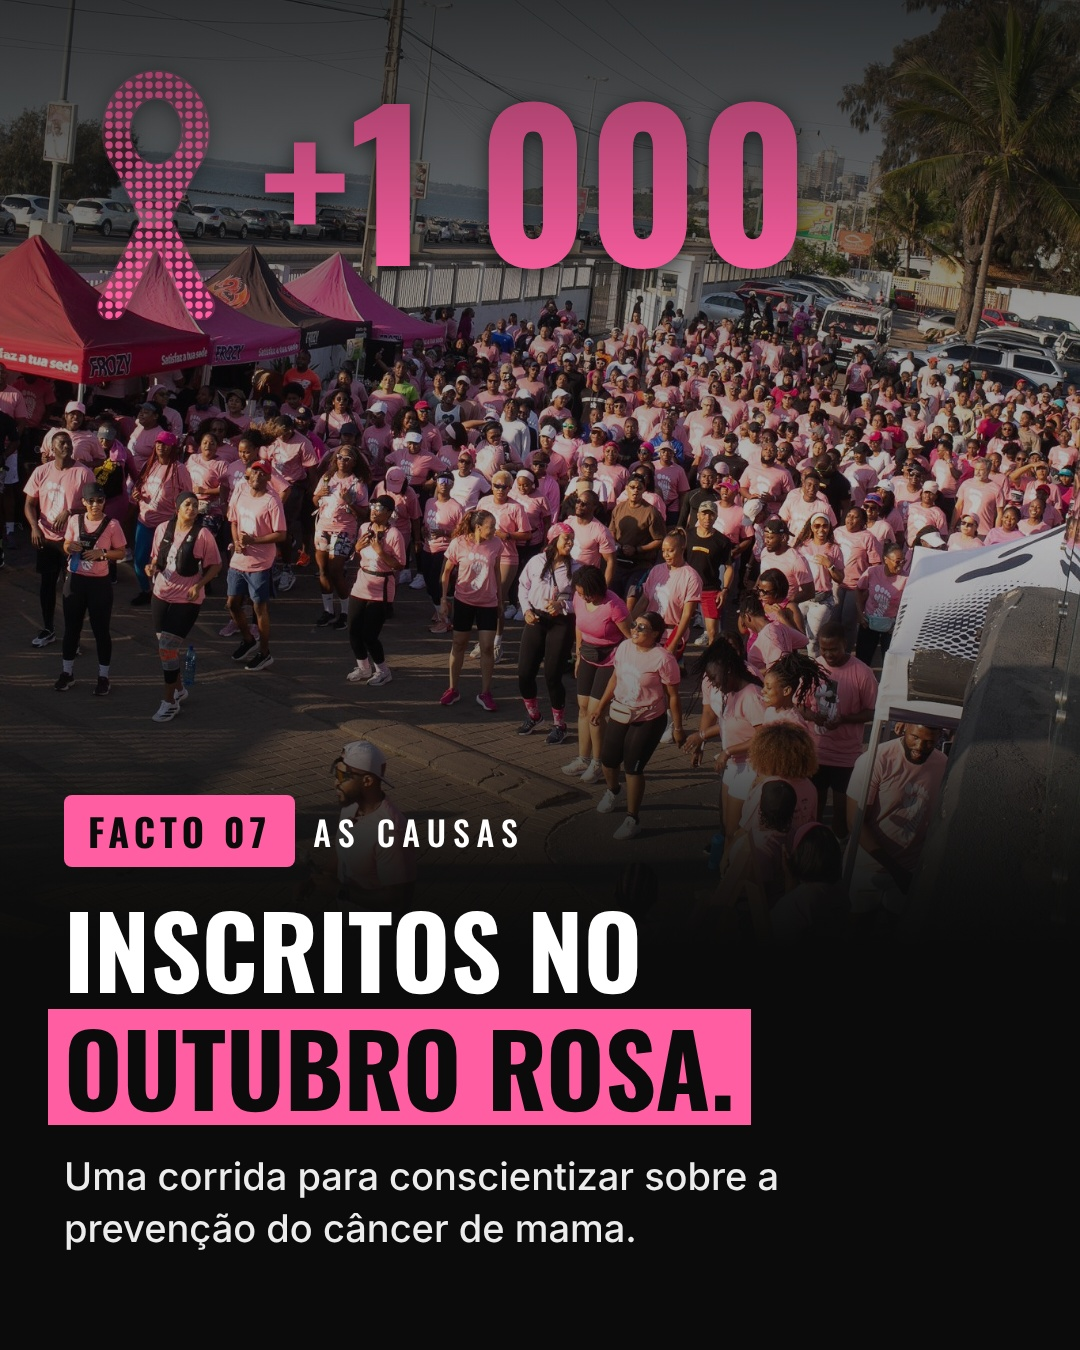
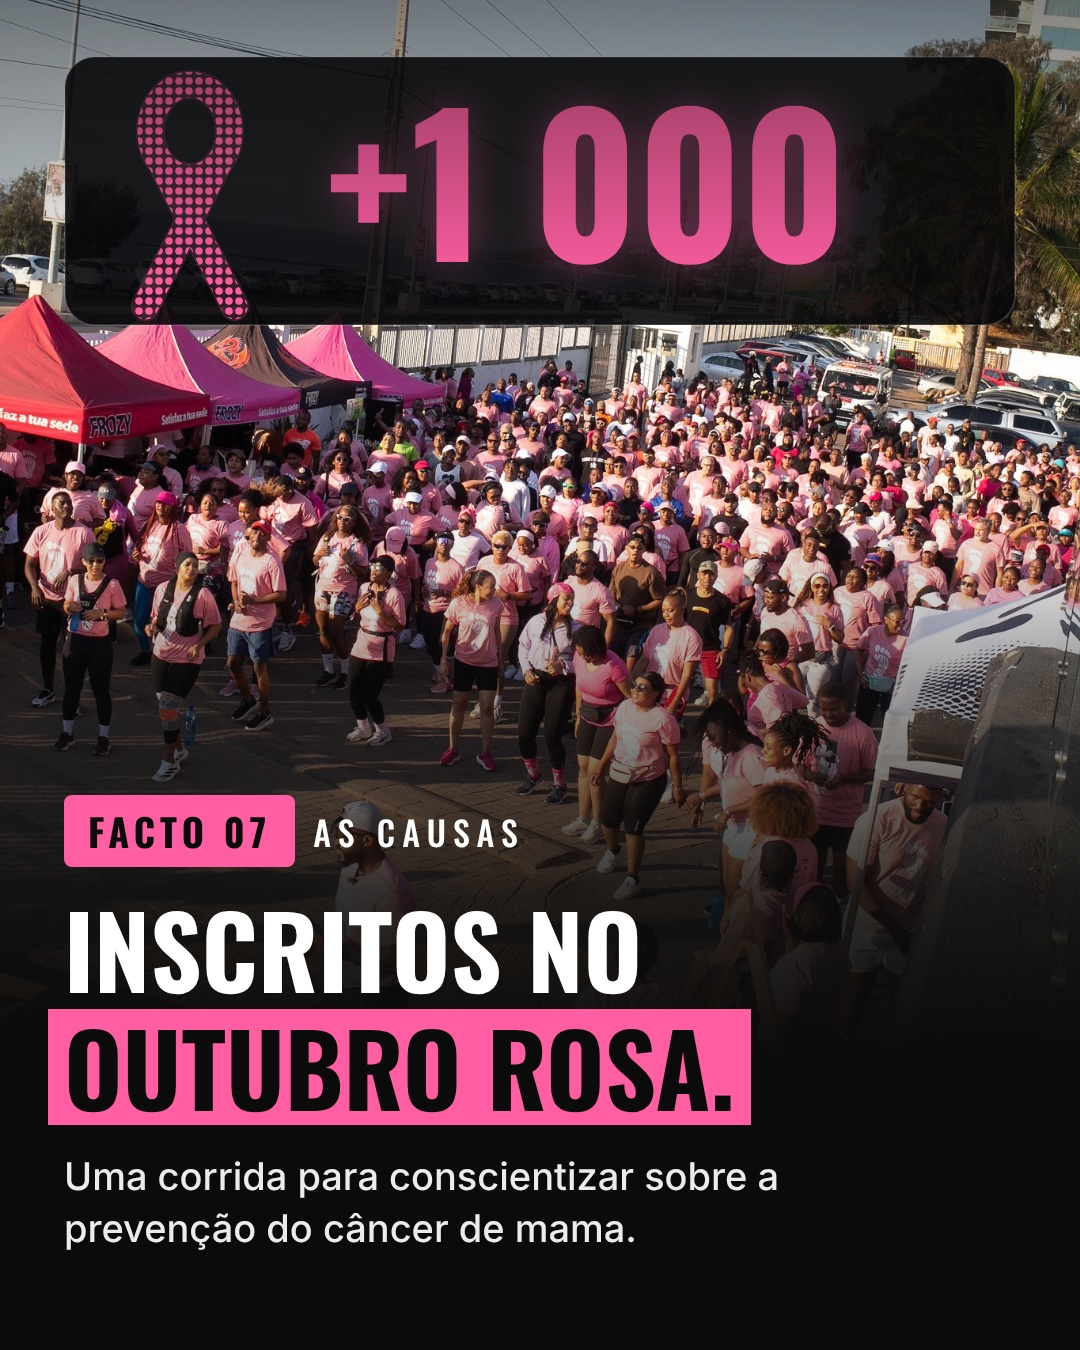
Facto 7: painel do laço e do número movido para o topo, multidão visível
Claude-Session: https://claude.ai/code/session_01DkaCWGXuFd6yQ1MSFtQr7D

diff --git a/src/Carousel.tsx b/src/Carousel.tsx
@@ -236,8 +236,8 @@ const LedNumber: React.FC<{text: string; accent: string}> = ({text, accent}) => 
   );
 };
 
-/** Facto 7: o laço rosa da consciencialização, feito de pontos, e o número — no céu, sem tapar a multidão. */
-const RibbonRow: React.FC<{text: string; accent: string}> = ({text, accent}) => {
+/** Facto 7: painel com o laço rosa da consciencialização (feito de pontos) e o número, encostado ao topo. */
+const RibbonPanel: React.FC<{text: string; accent: string}> = ({text, accent}) => {
   // laço clássico: argola oca em cima e duas pontas que se cruzam em X
   const shape = (
     <>
@@ -246,21 +246,22 @@ const RibbonRow: React.FC<{text: string; accent: string}> = ({text, accent}) => 
       <line x1="132" y1="104" x2="48" y2="268" />
     </>
   );
-  const T = "translate(6 6) scale(0.86)";
+  const T = "translate(40 20) scale(0.86)";
   return (
-    <svg width="952" height="250" viewBox="0 0 952 250" style={{position: "absolute", left: PAD, top: 70, filter: "drop-shadow(0 3px 10px rgba(0,0,0,0.65))"}}>
+    <svg width="952" height="270" viewBox="0 0 952 270" style={{position: "absolute", left: PAD, top: 56}}>
       <defs>
         <pattern id="rdots" width="10" height="10" patternUnits="userSpaceOnUse">
           <circle cx="5" cy="5" r="3.8" fill={accent} />
         </pattern>
         <mask id="rmask">
-          <rect width="952" height="250" fill="#000" />
+          <rect width="952" height="270" fill="#000" />
           <g transform={T} fill="none" stroke="#fff" strokeWidth="30" strokeLinecap="round">{shape}</g>
         </mask>
       </defs>
-      <g transform={T} fill="none" stroke={accent} strokeWidth="34" strokeLinecap="round" opacity="0.22">{shape}</g>
-      <g mask="url(#rmask)"><rect width="952" height="250" fill="url(#rdots)" /></g>
-      <text x="196" y="196" fontFamily={OSWALD} fontWeight={700} fontSize="200" fill={accent}>{text}</text>
+      <rect x="1" y="1" width="950" height="268" rx="30" fill="rgba(8,8,10,0.9)" stroke="rgba(255,255,255,0.14)" strokeWidth="2" />
+      <g transform={T} fill="none" stroke={accent} strokeWidth="34" strokeLinecap="round" opacity="0.16">{shape}</g>
+      <g mask="url(#rmask)"><rect width="952" height="270" fill="url(#rdots)" /></g>
+      <text x="262" y="206" fontFamily={OSWALD} fontWeight={700} fontSize="190" fill={accent} style={{filter: `drop-shadow(0 0 20px ${accent}66)`}}>{text}</text>
     </svg>
   );
 };
@@ -273,10 +274,10 @@ const Fact: React.FC<{s: FactSlide}> = ({s}) => {
       <Img src={staticFile(s.photo)} style={{width: "100%", height: "100%", objectFit: "cover", objectPosition: s.pos, transform: s.shift ? `translateY(${-s.shift}px)` : undefined, WebkitMaskImage: s.shift ? (s.shift > 0 ? `linear-gradient(180deg, #000 ${1350 - s.shift - 200}px, transparent ${1350 - s.shift}px)` : `linear-gradient(180deg, transparent ${-s.shift}px, #000 ${-s.shift + 220}px)`) : undefined, filter: s.cut ? "blur(4px) brightness(0.8)" : s.night ? "brightness(0.55) saturate(0.7) contrast(1.1)" : undefined}} />
       {s.night && <AbsoluteFill style={{background: "linear-gradient(180deg, rgba(8,24,70,0.78) 0%, rgba(14,40,110,0.45) 100%)", mixBlendMode: "multiply"}} />}
       {s.night && <Moon />}
-      {s.diagram && <AbsoluteFill style={{background: s.diagram === "night" ? "linear-gradient(180deg, rgba(8,14,36,0.9) 0%, rgba(8,14,36,0.75) 21%, rgba(8,14,36,0) 36%)" : "linear-gradient(180deg, rgba(11,11,11,0.65) 0%, rgba(11,11,11,0.2) 45%, rgba(11,11,11,0) 100%)"}} />}
+      {s.diagram && s.diagram !== "ribbon" && <AbsoluteFill style={{background: s.diagram === "night" ? "linear-gradient(180deg, rgba(8,14,36,0.9) 0%, rgba(8,14,36,0.75) 21%, rgba(8,14,36,0) 36%)" : "linear-gradient(180deg, rgba(11,11,11,0.65) 0%, rgba(11,11,11,0.2) 45%, rgba(11,11,11,0) 100%)"}} />}
       {s.diagram === "hybrid" && <HybridDiagram />}
       {s.diagram === "night" && <NightArt accent={s.accent} />}
-      {s.diagram === "ribbon" && s.stat && <RibbonRow text={s.stat.text} accent={s.accent} />}
+      {s.diagram === "ribbon" && s.stat && <RibbonPanel text={s.stat.text} accent={s.accent} />}
       {s.cut && (
         <div style={{position: "absolute", left: 0, right: 0, top: 120, textAlign: "center", fontFamily: OSWALD, fontWeight: 700, fontSize: 760, lineHeight: 1, color: s.accent, opacity: 0.95}}>
           {s.kicker.slice(-2)}

diff --git a/src/carousel.ts b/src/carousel.ts
@@ -14,7 +14,7 @@ export type Slide = {kind: "cover"; prompt: string; photo: string; pos: string} 
 const BRAND = "#fabb00";
 // foto / recorte / enquadramento de cada facto (mesma ordem de FACTS em facts.ts)
 const LOOK = [
-  {pos: "49% 50%", shift: 170}, {pos: "28% 50%"}, {pos: "50% 60%"}, {pos: "50% 0%", shift: 290, diagram: "night"}, {pos: "50% 60%", diagram: "hybrid"}, {pos: "50% 50%"}, {pos: "50% 40%", shift: 200, diagram: "ribbon"}, {pos: "50% 0%"},
+  {pos: "49% 50%", shift: 170}, {pos: "28% 50%"}, {pos: "50% 60%"}, {pos: "50% 0%", shift: 290, diagram: "night"}, {pos: "50% 60%", diagram: "hybrid"}, {pos: "50% 50%"}, {pos: "50% 40%", shift: 140, diagram: "ribbon"}, {pos: "50% 0%"},
 ];
 const STAT = [undefined, undefined, undefined, undefined, undefined, {text: "+2500", led: true}, {text: "+1 000", ribbon: true}, {text: "25 JUN", stamp: true}];
 
